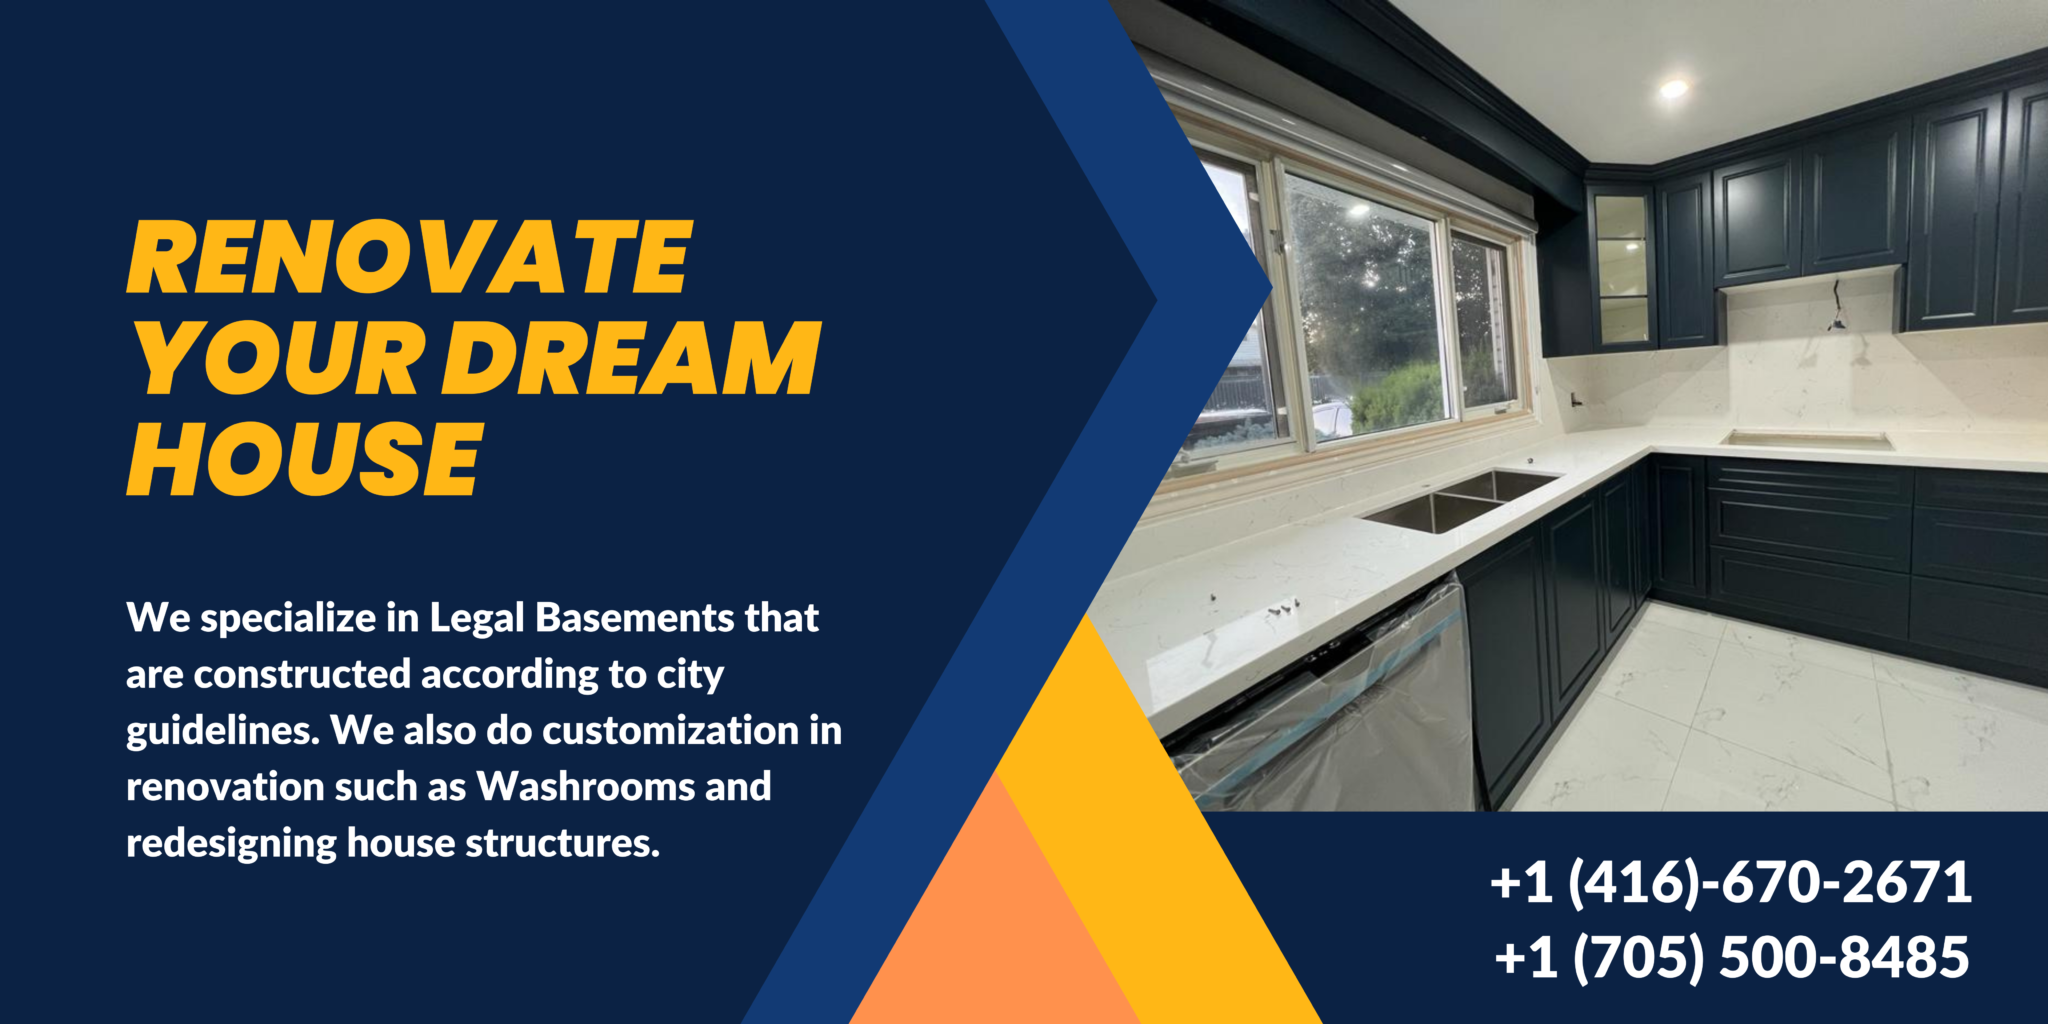
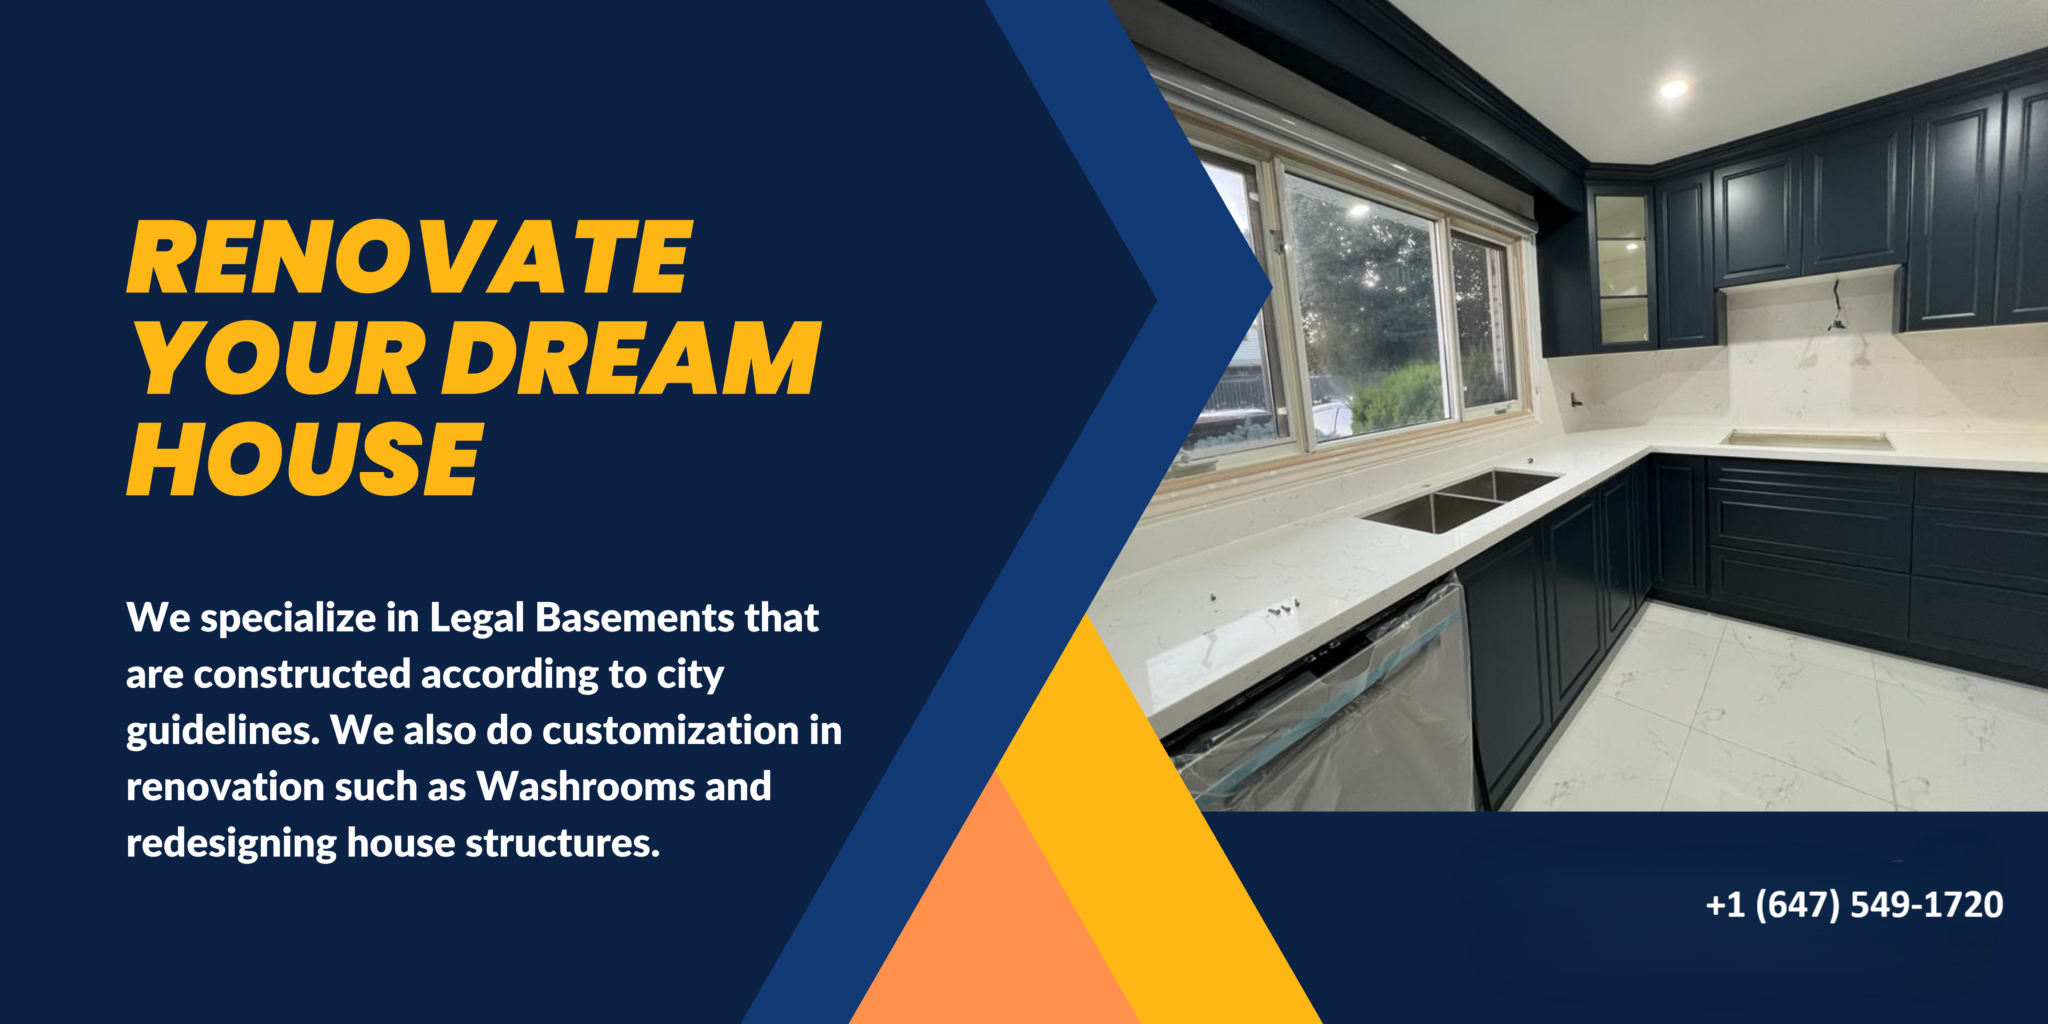
new

Changed region(s): [[0.7188, 0.8438, 1.0, 0.9688]]

diff --git a/src/component/Footer.js b/src/component/Footer.js
@@ -5,13 +5,13 @@ function Footer({ setServiceTab }) {
   return (
     <footer className="bg-blue-900 text-white pt-8 pb-4 px-4">
       <div className="max-w-screen-xl mx-auto flex flex-col md:flex-row justify-between">
-        {/* Left Section: Gglass Construction Info */}
+        {/* Left Section: New aura Construction Info */}
         <div className="flex flex-col space-y-4 md:w-1/3">
           <h2 className="text-lg font-semibold text-orange-400">
-            Gglass Construction
+            New Aura Renovations
           </h2>
           <p>
-            G-Class Construction Corp. is a leading construction and renovation
+            New Aura Renovations is a leading construction and renovation
             company. We specialize in Legal Basements constructed according to
             city guidelines.
           </p>
@@ -66,10 +66,9 @@ function Footer({ setServiceTab }) {
           <h2 className="text-lg font-semibold text-orange-400">
             Contact Information
           </h2>
-          <p>+1(416)-670-2671</p>
-          <p>+1(705)-500-8485</p>
-          <p>+1(437)-365-9549</p>
-          <p>33 Palm Tree Rd, Brampton, ON, L6V 4N5, Canada</p>
+          <p>+1(647)-548-1720</p>
+          
+          <p>8 Hillsburg, Brampton, ON, L6X 4Z1, Canada</p>
           <p>9:00 AM – 6:00 PM (Mon – Fri)</p>
           <div className="flex space-x-4">
             <a href="https://facebook.com" className="hover:text-orange-300">
@@ -85,7 +84,7 @@ function Footer({ setServiceTab }) {
       {/* Footer Bottom */}
       <div className="border-t border-gray-600 mt-8 pt-4 text-center text-sm">
         <p>
-          Copyright © 2024 Gglass Construction | Website by Mishaar Solutions
+          Copyright © 2025 New Aura Renovations | Website by Dinesh and juniors
         </p>
       </div>
     </footer>

diff --git a/src/component/Navbar.js b/src/component/Navbar.js
@@ -30,17 +30,10 @@ const Navbar = ({ activePage, setServiceTab }) => {
                 <path d="M164.9 24.6c-7.7-18.6-28-28.5-47.4-23.2l-88 24C12.1 30.2 0 46 0 64C0 311.4 200.6 512 448 512c18 0 33.8-12.1 38.6-29.5l24-88c5.3-19.4-4.6-39.7-23.2-47.4l-96-40c-16.3-6.8-35.2-2.1-46.3 11.6L304.7 368C234.3 334.7 177.3 277.7 144 207.3L193.3 167c13.7-11.2 18.4-30 11.6-46.3l-40-96z" />
               </svg>
             </p>
-            <a href="tel:+14166702671" className="hover:underline ">
-              +1 (416) 670-2671
+            <a href="tel:+16475491720" className="hover:underline ">
+              +1 (647) 549-1720
             </a>
-            <div className="border-l-2"></div>
-            <a href="tel:+17055008485" className="hover:underline">
-              +1 (705) 500-8485
-            </a>
-            <div className="border-r-2"></div>
-            <a href="tel:+14373659549" className="hover:underline">
-              +1 (437) 365-9549
-            </a>
+            
           </div>
 
           {/* Icons on the Right */}

diff --git a/public/index.html b/public/index.html
@@ -25,7 +25,7 @@
       work correctly both with client-side routing and a non-root public URL.
       Learn how to configure a non-root public URL by running `npm run build`.
     -->
-    <title>React App</title>
+    <title>New Aura Renovations</title>
   </head>
   <body>
     <noscript>You need to enable JavaScript to run this app.</noscript>
